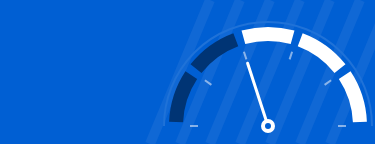
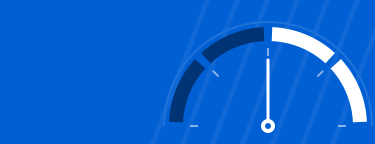
Change loyalty offer to 3 paid washes, 4th free
- Gauge redrawn with 4 segments (3 paid + gift) from the updated design
  canvas boards; web card, Apple strip and Google hero PNGs re-rendered,
  step-4 images removed
- Card, sample card, dev gallery and wallet pass view count to 3
- Site copy (es/en) says the fourth wash is free
- Wallet JSON templates and loyalty docs updated
- Migration freezes target 4 on mid-cycle cards, then sets config to 3
  (applied to the live database)

diff --git a/v2/src/lib/wallet/types.ts b/v2/src/lib/wallet/types.ts
@@ -3,23 +3,23 @@ import type { LoyaltyState } from "@/lib/loyalty/types";
 /**
  * What a wallet pass has to show, worked out once from the database state.
  *
- * The five states come from `loyalty system/wallet-design/README.md`. State 5
+ * The four states come from `loyalty system/wallet-design/README.md`. State 4
  * (free wash just redeemed) is the card at zero with a thank-you message, so
  * it cannot be told apart from a brand-new card by the count alone: the caller
  * says so with `justRedeemed`.
  */
 export type PassView = {
-  /** Which gauge image: 0 to 4. Index into `hero_N.png` / `strip_N.png`. */
-  gauge: 0 | 1 | 2 | 3 | 4;
-  /** "3/4" */
+  /** Which gauge image: 0 to 3. Index into `hero_N.png` / `strip_N.png`. */
+  gauge: 0 | 1 | 2 | 3;
+  /** "2/3" */
   washes: string;
   /** Row label next to the washes count. */
   remainingLabel: string;
-  /** "1 más", or "¡GRATIS!" at state 4. */
+  /** "1 más", or "¡GRATIS!" at state 3. */
   remaining: string;
-  /** "5º gratis", or "Listo para usar" at state 4. */
+  /** "4º gratis", or "Listo para usar" at state 3. */
   reward: string;
-  /** Only set for states 4 and 5. Sent as a notification. */
+  /** Only set for states 3 and 4. Sent as a notification. */
   message: string | null;
   customerName: string;
   cardNumber: string;
@@ -31,16 +31,16 @@ export function toPassView(
   justRedeemed = false,
 ): PassView {
   const max = state.visitsRequired;
-  const gauge = Math.max(0, Math.min(4, state.visits)) as PassView["gauge"];
+  const gauge = Math.max(0, Math.min(3, state.visits)) as PassView["gauge"];
   const ready = state.rewardAvailable;
   const left = Math.max(0, max - state.visits);
 
   return {
-    gauge: ready ? 4 : gauge,
+    gauge: ready ? 3 : gauge,
     washes: `${ready ? max : state.visits}/${max}`,
     remainingLabel: ready ? "Tu próximo lavado" : "Hasta lavado gratis",
     remaining: ready ? "¡GRATIS!" : `${left} más`,
-    reward: ready ? "Listo para usar" : "5º gratis",
+    reward: ready ? "Listo para usar" : "4º gratis",
     message: ready
       ? "¡Tu próximo lavado es gratis!"
       : justRedeemed

diff --git a/v2/src/components/loyalty/LoyaltyPass.tsx b/v2/src/components/loyalty/LoyaltyPass.tsx
@@ -2,8 +2,8 @@ import { cardFont } from "@/lib/fonts";
 import type { LoyaltyState } from "@/lib/loyalty/types";
 import "./loyalty-pass.css";
 
-/** The gauge artwork exists for 0 to 4 paid washes, one image per count. */
-const GAUGE_MAX = 4;
+/** The gauge artwork exists for 0 to 3 paid washes, one image per count. */
+const GAUGE_MAX = 3;
 
 /**
  * The customer's loyalty card: the "Redline Gauge" design, the same artwork
@@ -44,7 +44,7 @@ export function LoyaltyPass({
   nameTag?: "h1" | "p";
 }) {
   const filled = celebrating ? state.visitsRequired : state.visits;
-  // The artwork stops at four washes. A longer programme would need more dial
+  // The artwork stops at three washes. A longer programme would need more dial
   // images; until they exist the dial stays at its last picture.
   const gauge = Math.min(Math.max(filled, 0), GAUGE_MAX);
   const base = `/images/card/gauge/strip-${gauge}`;

diff --git a/v2/src/app/[locale]/loyalty/page.tsx b/v2/src/app/[locale]/loyalty/page.tsx
@@ -35,7 +35,7 @@ export async function generateMetadata({
 const STEPS = [
   { key: "join", icon: "wallet" },
   { key: "show", icon: "/images/card/gauge/strip-2.png" },
-  { key: "free", icon: "/images/card/gauge/strip-4.png" },
+  { key: "free", icon: "/images/card/gauge/strip-3.png" },
 ] as const;
 
 /** The step's picture, on a disc of the card's blue. */

diff --git a/v2/src/app/dev/card/page.tsx b/v2/src/app/dev/card/page.tsx
@@ -14,7 +14,7 @@ import type { LoyaltyState } from "@/lib/loyalty/types";
 export const dynamic = "force-dynamic";
 
 /** Washes paid for. The card draws this many cars plus the gift slot. */
-const TOTAL = 4;
+const TOTAL = 3;
 const REWARD_ES = "Lavado GRATIS";
 
 /** Mirrors the copy the real card page builds from next-intl. */

diff --git a/v2/src/components/loyalty/DemoPass.tsx b/v2/src/components/loyalty/DemoPass.tsx
@@ -5,8 +5,8 @@ import { useTranslations } from "next-intl";
 
 import { LoyaltyPass } from "./LoyaltyPass";
 
-/** Paid washes on the sample, matching the live programme's four. */
-const TARGET = 4;
+/** Paid washes on the sample, matching the live programme's three. */
+const TARGET = 3;
 const STEP_MS = 520;
 
 /**

diff --git a/v2/loyalty system/wallet-design/README.md b/v2/loyalty system/wallet-design/README.md
@@ -2,7 +2,8 @@
 
 Final design: **Direction B, Redline Gauge, in Vaporix blue. Spanish only.**
 Approved on the design canvas, 8 November 2026. The canvas boards are
-"FINAL — Apple Wallet · 5 estados · Español" and "FINAL — Google Wallet · 5 estados · Español".
+"FINAL — Apple Wallet · 4 estados · Español" and "FINAL — Google Wallet · 4 estados · Español"
+(updated 10 November 2026 for the 3 + 1 offer; the gauge PNGs here are rendered from those boards).
 
 This folder has every file the two wallets need from design. Nothing here
 contains a customer's data: the QR code, the name and the numbers are pass
@@ -30,30 +31,32 @@ in the hero image as a "Don't".
 
 ---
 
-## The five states
+## The four states
 
-`N` = paid washes on the card. State 5 (free wash redeemed) uses `N = 0`.
+Offer since 10 November 2026: **three paid washes, the fourth free.** The gauge
+has four segments: three for paid washes, the last one the gift.
+
+`N` = paid washes on the card. State 4 (free wash redeemed) uses `N = 0`.
 
 | State | Image | LAVADOS | Primary (Apple) / "Hasta lavado gratis" (Google) | PREMIO (Apple) | Premio (Google) | Message |
 |---|---|---|---|---|---|---|
-| 1 | `strip_1` / `hero_1` | 1/4 | 3 más · PARA TU LAVADO GRATIS | 5º lavado gratis | 5º gratis | — |
-| 2 | `strip_2` / `hero_2` | 2/4 | 2 más · PARA TU LAVADO GRATIS | 5º lavado gratis | 5º gratis | — |
-| 3 | `strip_3` / `hero_3` | 3/4 | 1 más · PARA TU LAVADO GRATIS | 5º lavado gratis | 5º gratis | — |
-| 4 | `strip_4` / `hero_4` | 4/4 | GRATIS · ¡TU PRÓXIMO LAVADO ES GRATIS! | Listo para usar | Listo para usar | ¡Tu próximo lavado es gratis! |
-| 5 | `strip_0` / `hero_0` | 0/4 | 4 más · PARA TU LAVADO GRATIS | 5º lavado gratis | 5º gratis | Lavado gratis canjeado. ¡Gracias! |
+| 1 | `strip_1` / `hero_1` | 1/3 | 2 más · PARA TU LAVADO GRATIS | 4º lavado gratis | 4º gratis | — |
+| 2 | `strip_2` / `hero_2` | 2/3 | 1 más · PARA TU LAVADO GRATIS | 4º lavado gratis | 4º gratis | — |
+| 3 | `strip_3` / `hero_3` | 3/3 | GRATIS · ¡TU PRÓXIMO LAVADO ES GRATIS! | Listo para usar | Listo para usar | ¡Tu próximo lavado es gratis! |
+| 4 | `strip_0` / `hero_0` | 0/3 | 3 más · PARA TU LAVADO GRATIS | 4º lavado gratis | 4º gratis | Lavado gratis canjeado. ¡Gracias! |
 
-On Google, state 4 changes the row label too: "Tu próximo lavado" / "¡GRATIS!".
+On Google, state 3 changes the row label too: "Tu próximo lavado" / "¡GRATIS!".
 
-State 5 is the card starting again from zero: the reward field goes straight
-back to "5º lavado gratis", never "Canjeado".
+State 4 is the card starting again from zero: the reward field goes straight
+back to "4º lavado gratis", never "Canjeado".
 
 ### Messages
 
 - **Apple:** put the text in `changeMessage` on the `premio` field, only in the
-  pass sent for state 4 and state 5. States 1–3 have no `changeMessage`. Apple
+  pass sent for state 3 and state 4. States 1–2 have no `changeMessage`. Apple
   says to use change messages "only for updates to time-critical information"
   and "never for marketing", which the free-wash unlock fits.
-- **Google:** PATCH the object, and for states 4 and 5 add a message
+- **Google:** PATCH the object, and for states 3 and 4 add a message
   (`addmessage`) with `TEXT_AND_NOTIFY`. Notification titles should be under 29
   characters, so the title is the message itself, without extra text.
 
@@ -68,13 +71,13 @@ back to "5º lavado gratis", never "Canjeado".
 | `icon.png`, `@2x`, `@3x` | 38 × 38 pt (38 / 76 / 114 px) | Required on every pass. Square, no rounded corners: the system rounds them |
 | `logo.png`, `@2x`, `@3x` | 50 × 50 pt (50 / 100 / 150 px) | Round VRX mark, transparent outside the circle. Top-left corner |
 | `strip_N.png`, `@2x`, `@3x` | 375 × 144 pt (375 / 750 / 1125 px) | **Rename to `strip.png` / `strip@2x.png` / `strip@3x.png`** inside the pass for state N |
-| `pass.json` | — | Template, shown at state 3. `CAPITALS_LIKE_THIS` are values the server fills in |
+| `pass.json` | — | Template, shown at state 2. `CAPITALS_LIKE_THIS` are values the server fills in |
 
 Colours: background `rgb(0, 95, 211)`, values `rgb(255, 255, 255)`, labels
 `rgb(220, 232, 248)`.
 
 Gauge (in the images): filled washes deep blue `#003474`, still to fill white,
-and at 4/4 the reward segment turns gold `#E8C547` with a gold glow and a white
+and at 3/3 the reward segment turns gold `#E8C547` with a gold glow and a white
 sparkle.
 
 ### `google/` — served from `https://vaporix.net/wallet/google/`
@@ -88,7 +91,7 @@ is built.
 | `program-logo.png` | 660 × 660 px | Full square, white, **not pre-cut into a circle**. Google masks it; the mark sits inside the 15% safe margin |
 | `hero_N.png` | 1032 × 812 px | Transparent background, so the card's `#005FD3` shows through. 20dp clear at top and bottom. Set per customer in `object.heroImage`. Drawn for the Android position: **below the QR code** (the barcode section's bottom slot) |
 | `loyalty-class.json` | — | Created once. Two card rows: Lavados / Hasta lavado gratis, then Socio / Premio |
-| `loyalty-object.example.json` | — | One per customer, shown at state 3 |
+| `loyalty-object.example.json` | — | One per customer, shown at state 2 |
 
 ---
 

diff --git a/v2/loyalty system/changing-the-offer.md b/v2/loyalty system/changing-the-offer.md
@@ -7,10 +7,11 @@ They behave very differently, and that difference is the whole point of this pag
 
 `loyalty_config.visits_required` is **the washes the customer pays for**, not the
 washes on the card. The card draws that many car stamps **plus one gift slot**, so
-the current value of `4` reads as "five washes, the fifth free".
+the current value of `3` reads as "four washes, the fourth free".
 
 | `visits_required` | The offer | The card |
 |---|---|---|
+| 3 | four washes, the fourth free (**current**, since 10 Nov 2026) | 3 segments + gift, counter `2 / 3` |
 | 4 | five washes, the fifth free | 4 cars + gift, counter `2 / 4` |
 | 5 | six washes, the sixth free | 5 cars + gift, counter `2 / 5` |
 
@@ -142,12 +143,15 @@ The sample card on both pages also counts to a fixed four (`TARGET` in
 
 | File | Key | Current text (es) |
 |---|---|---|
-| `messages/*.json` | `loyalty.lede` | Cada lavado suma un sello y el quinto es gratis… |
-| `messages/*.json` | `loyalty.steps.show.body` | …Cuatro lavados, cuatro sellos. |
-| `messages/*.json` | `loyalty.steps.free.title` | El quinto va por nuestra cuenta |
-| `messages/*.json` | `loyaltyBand.body` | …cada lavado suma un sello y el quinto es gratis. |
-| `messages/*.json` | `meta.loyalty.description` | …cada lavado suma un sello y el quinto es gratis. |
-| `src/components/loyalty/DemoPass.tsx` | `TARGET` | 4 |
+| `messages/*.json` | `loyalty.lede` | Cada lavado suma un sello y el cuarto es gratis… |
+| `messages/*.json` | `loyalty.steps.show.body` | …Tres lavados, tres sellos. |
+| `messages/*.json` | `loyalty.steps.free.title` | El cuarto va por nuestra cuenta |
+| `messages/*.json` | `loyaltyBand.body` | …cada lavado suma un sello y el cuarto es gratis. |
+| `messages/*.json` | `meta.loyalty.description` | …cada lavado suma un sello y el cuarto es gratis. |
+| `src/components/loyalty/DemoPass.tsx` | `TARGET` | 3 |
+| `src/components/loyalty/LoyaltyPass.tsx` | `GAUGE_MAX` | 3 (one gauge picture per count; a different count needs new artwork from the design canvas) |
+| `src/lib/wallet/types.ts` | gauge range, reward text | 0–3, "4º gratis" |
+| `loyalty system/wallet-design/` | gauge PNGs, `pass.json`, Google JSON | drawn for 3 + 1 |
 
 **Two more that go stale when the *reward* changes, not the number.** These say
 "free" in so many words, because "tu próximo lavado es Lavado GRATIS" is not a

diff --git a/v2/loyalty system/STATUS.md b/v2/loyalty system/STATUS.md
@@ -57,15 +57,19 @@ PIN length stays 4–12 digits — the owner's decision.
 
 ## The offer
 
-**Four paid washes, the fifth free.** The card shows four car stamps plus a
-gift slot — five slots, counter reads `2 / 4`.
+**Three paid washes, the fourth free** (changed 10 November 2026, was 4 + 1).
+The card shows three gauge segments plus a gift segment — counter reads `2 / 3`.
+The database change is `supabase/migrations/20261110000000_three_paid_washes.sql`
+(freezes the old target of 4 on cards already mid-cycle). **Applied to the live
+database on 10 November 2026**: 2 test cards that were mid-cycle keep a target of
+4 until their free wash; the other 5 active cards follow the new offer of 3.
 
-`loyalty_config.visits_required = 4` means *washes the customer pays for*. The
+`loyalty_config.visits_required = 3` means *washes the customer pays for*. The
 card draws one more slot than that. Getting this backwards is the mistake the
 build already made once; see `changing-the-offer.md`.
 
 After the free wash is given, the card keeps showing the finished row for
-**three hours**, then resets to `0 / 4`.
+**three hours**, then resets to `0 / 3`.
 
 ---
 
